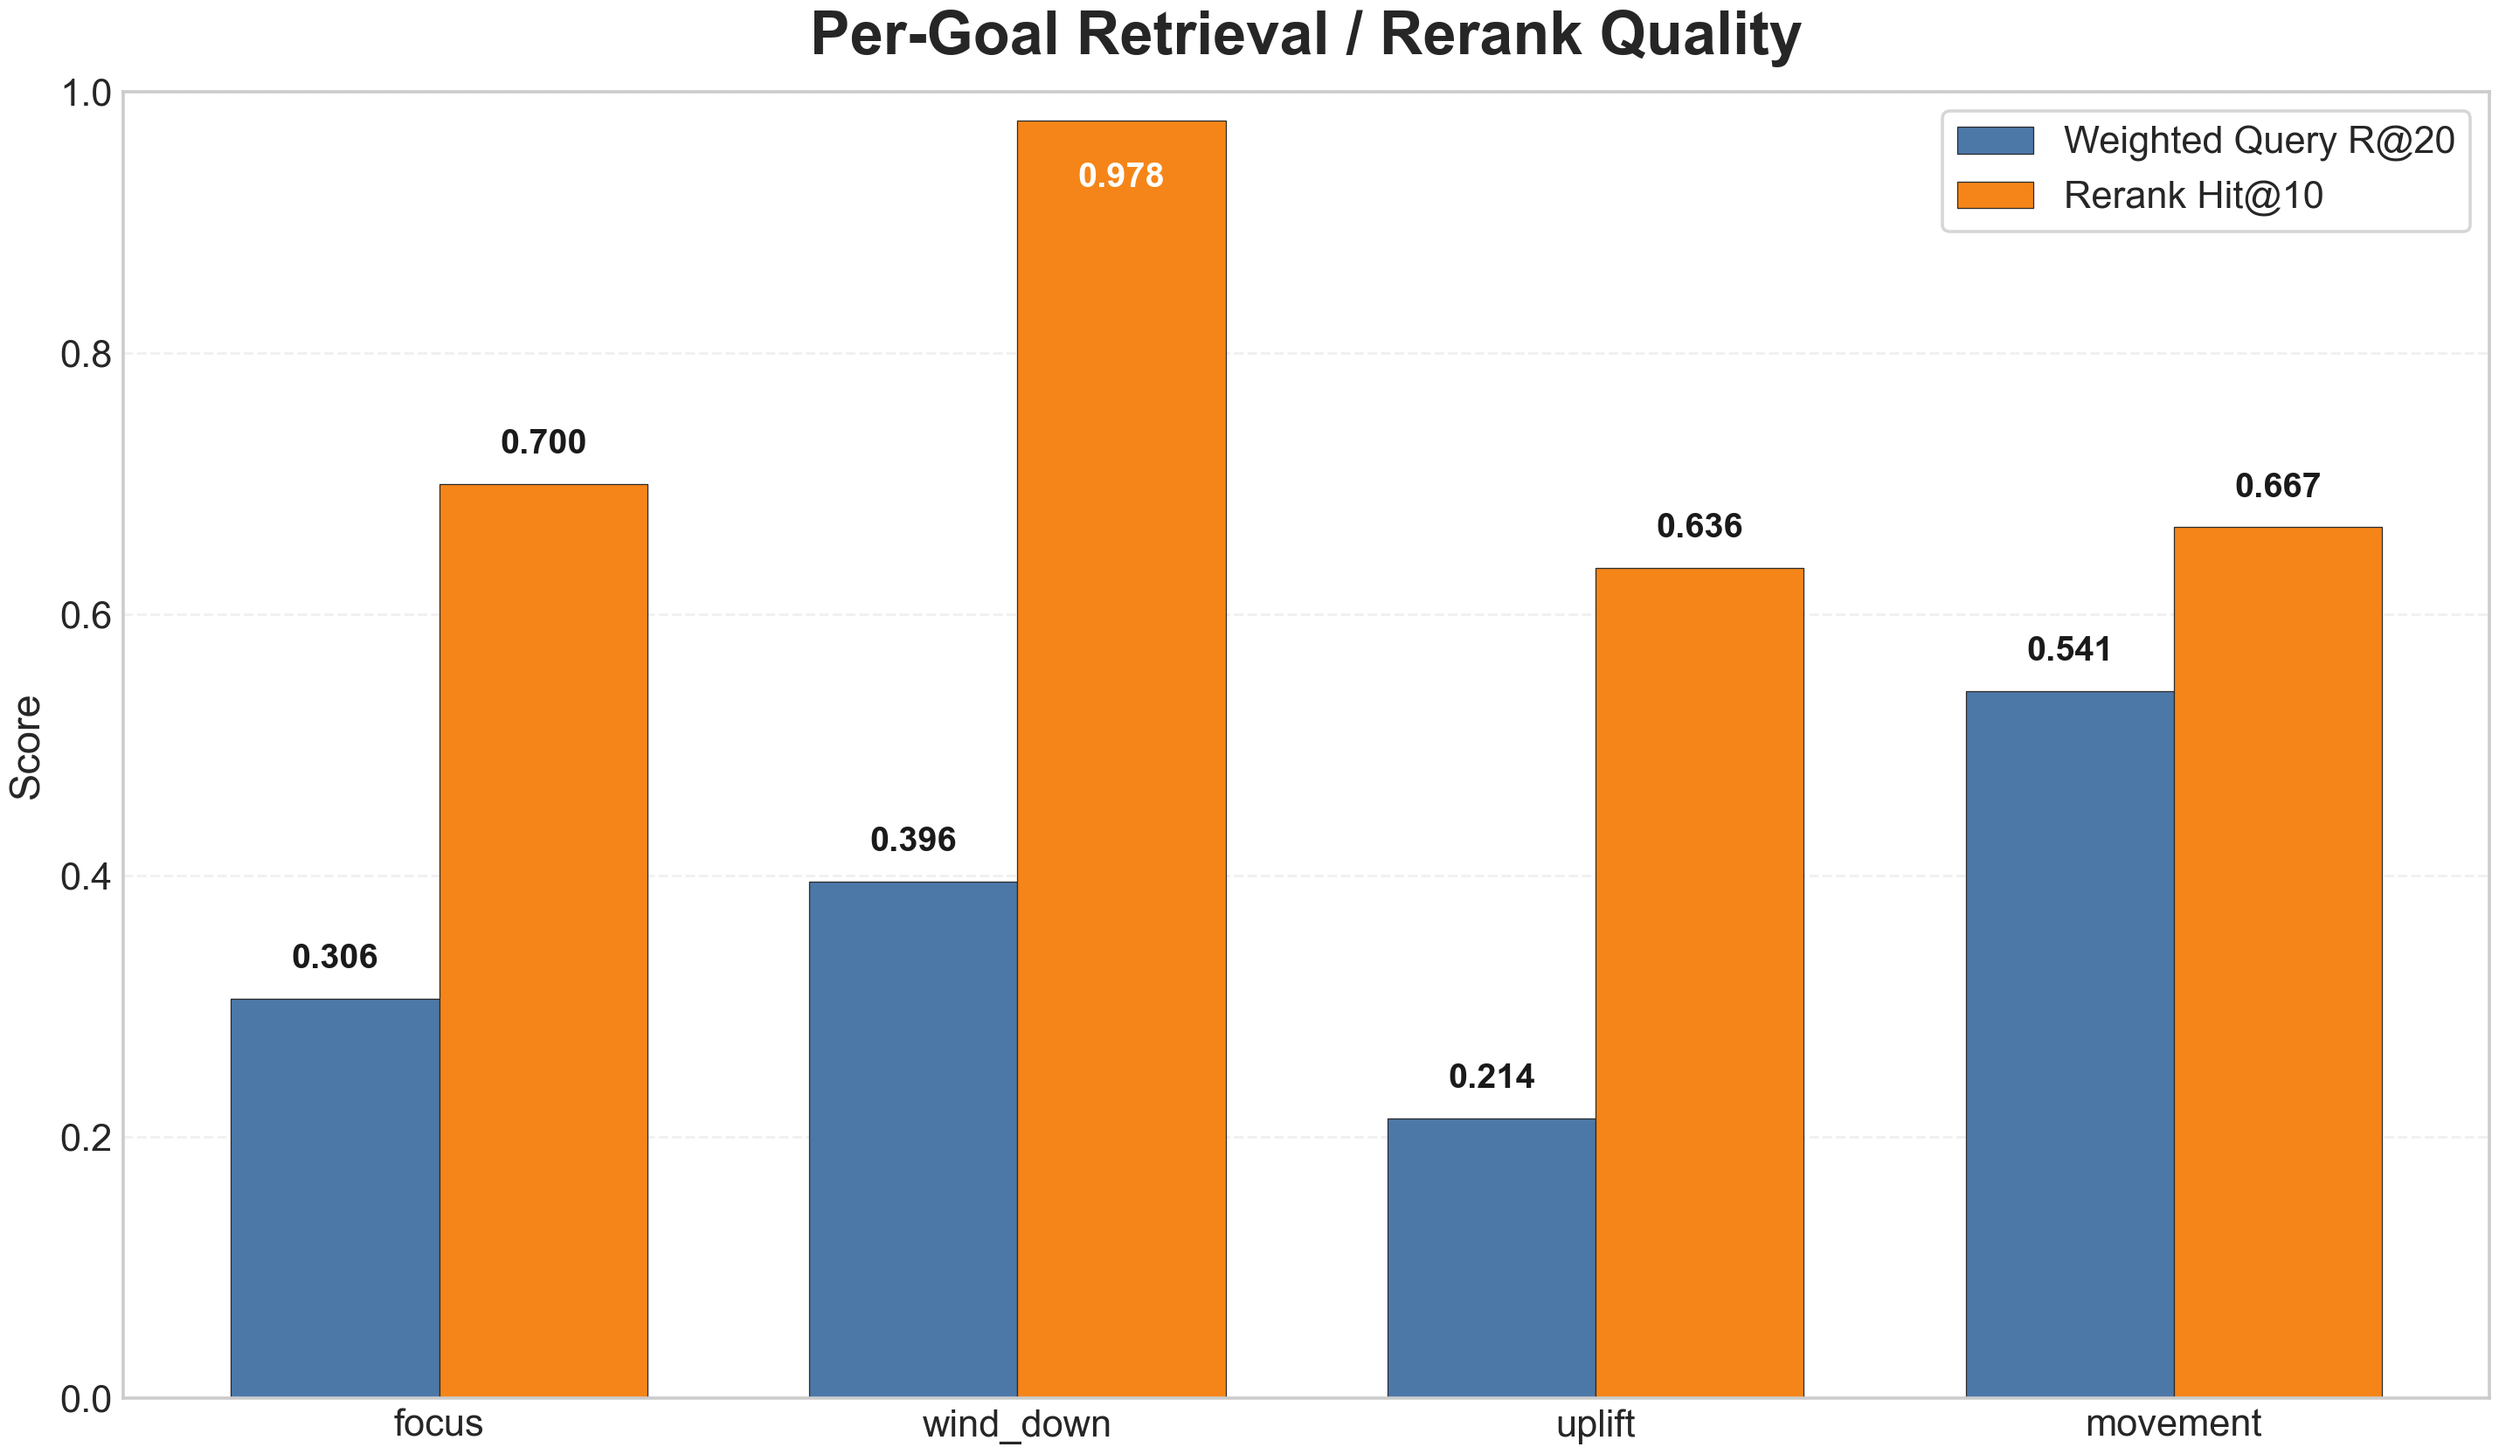
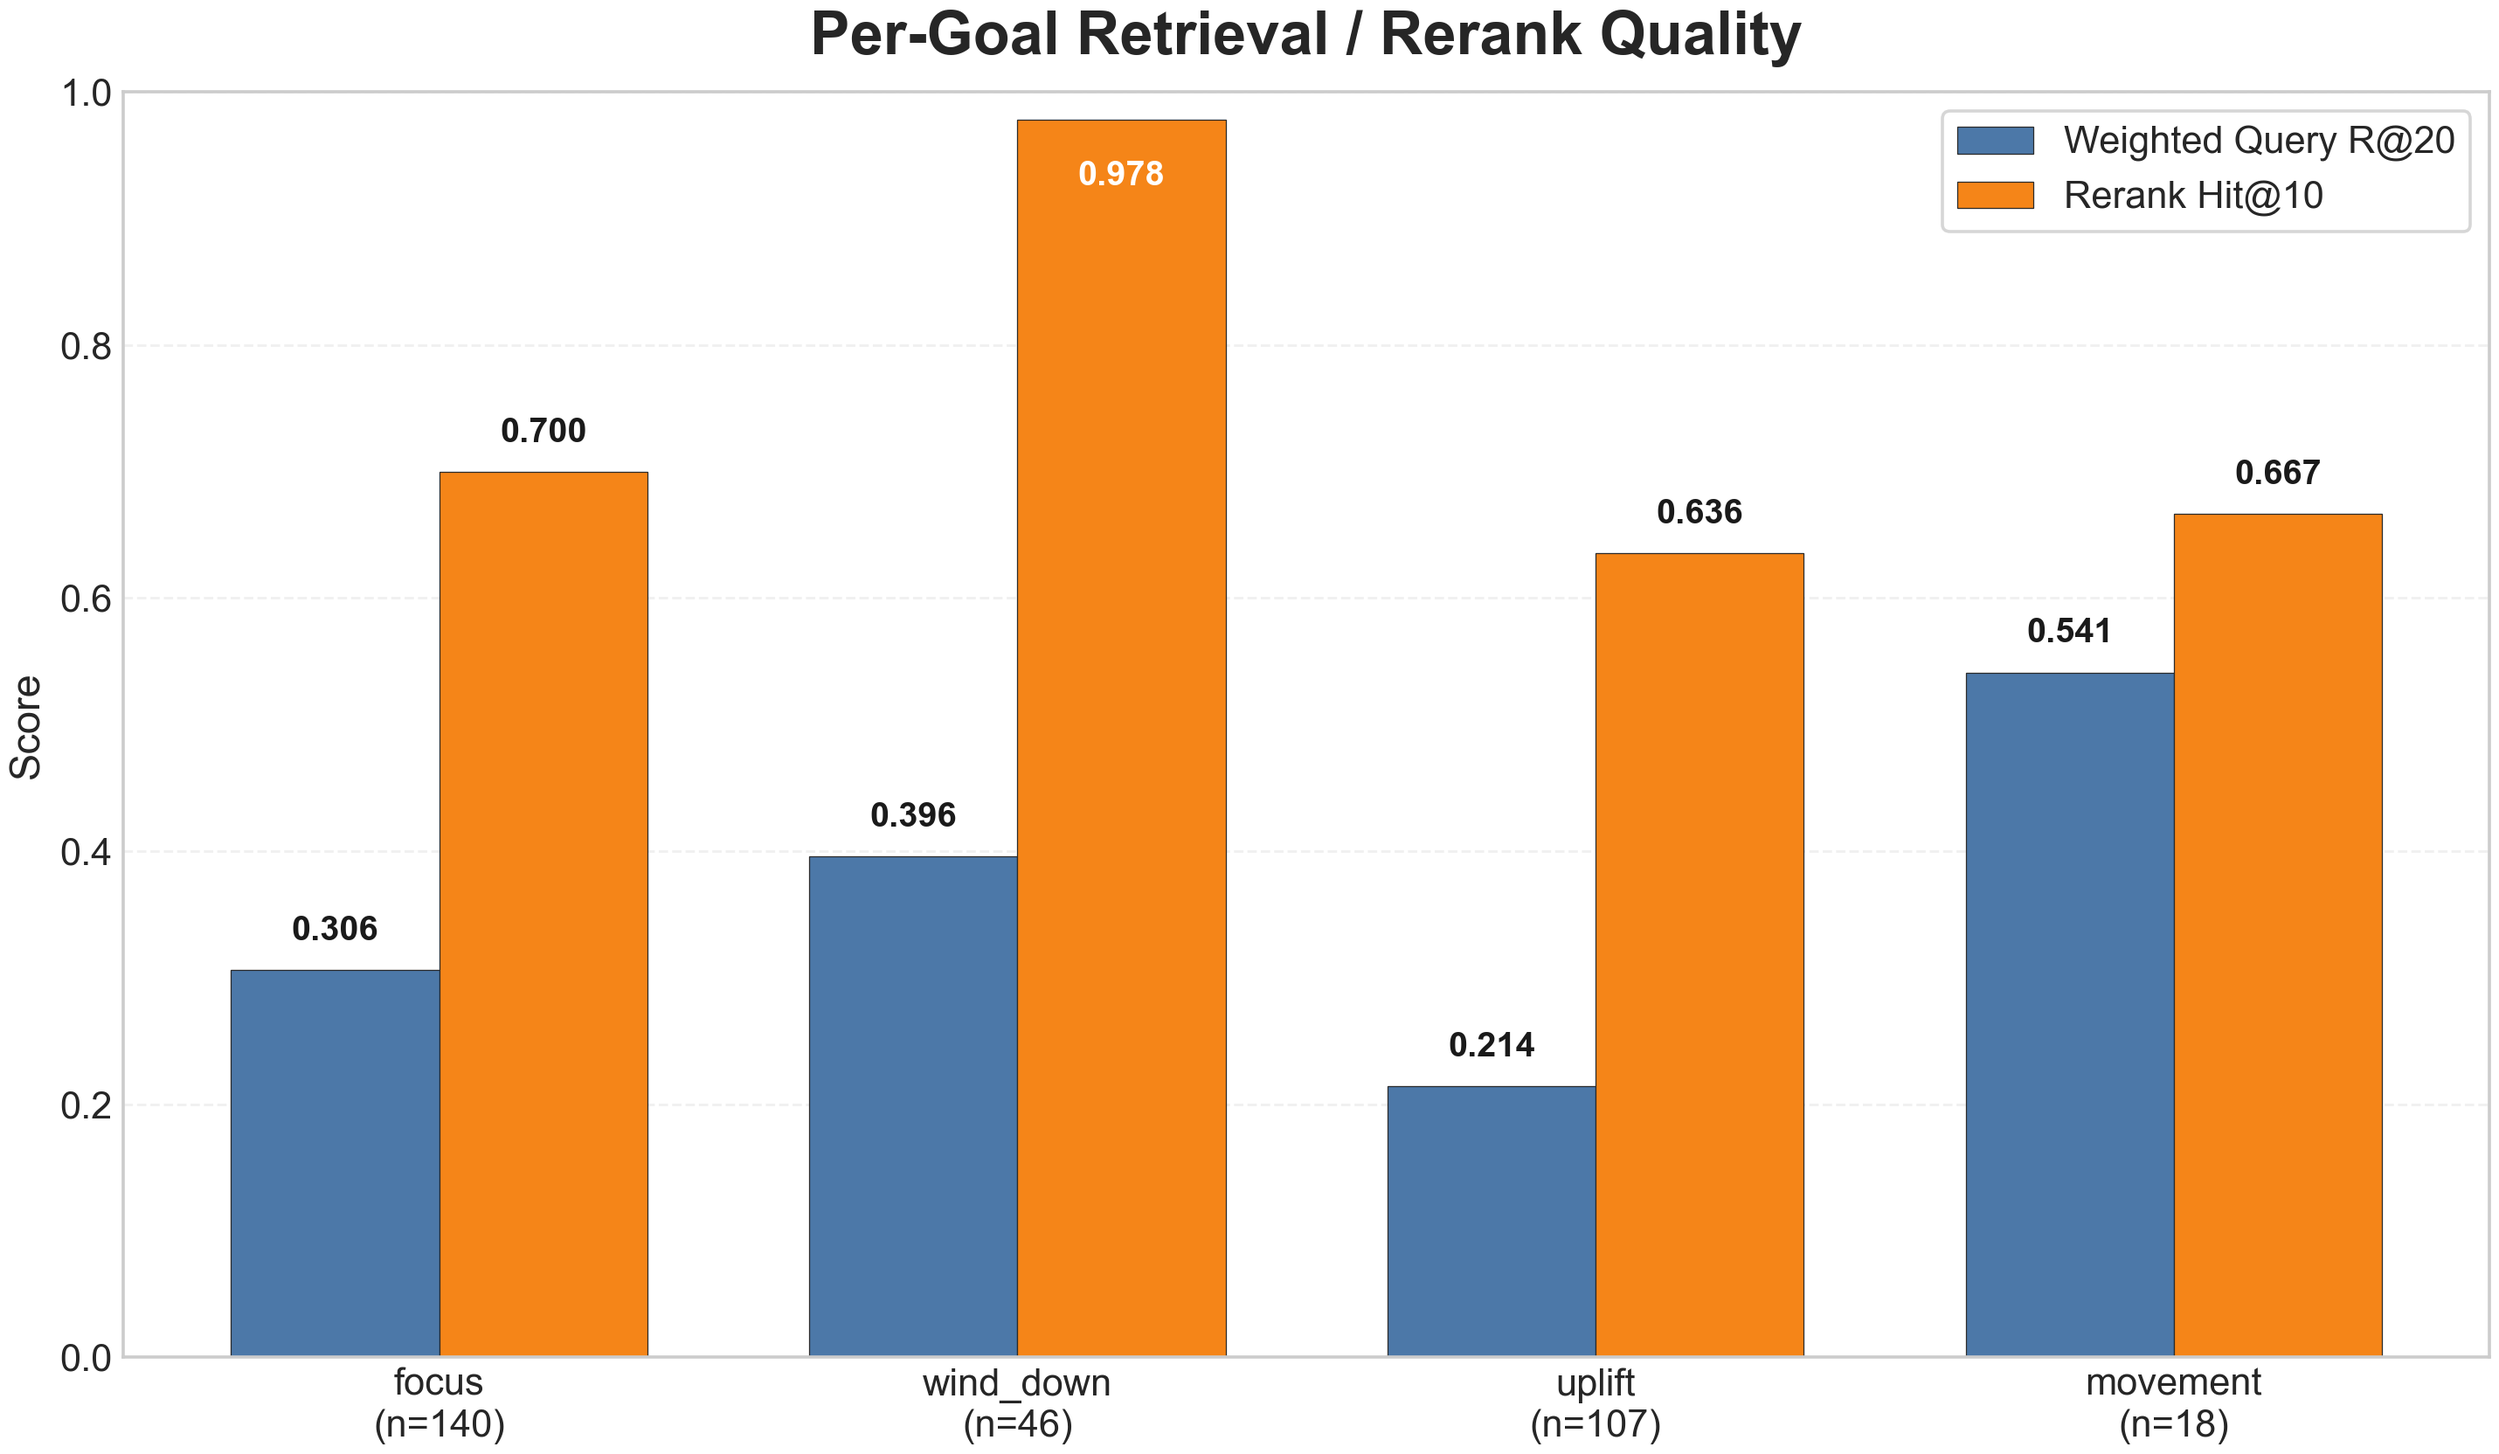
minor changes

diff --git a/eval_v2.py b/eval_v2.py
@@ -87,9 +87,11 @@ def save_figures(offline_eval: dict, output_dir: Path) -> list[Path]:
     )
 
     output_dir.mkdir(parents=True, exist_ok=True)
+    for stale_name in ("v2_key_metrics.png", "v2_legacy_diagnostics.png", "v2_pipeline_overview.png"):
+        stale_path = output_dir / stale_name
+        if stale_path.exists():
+            stale_path.unlink()
     created_paths: list[Path] = []
-    primary = offline_eval["primary_metrics"]
-    palette = ["#4C78A8", "#F58518", "#54A24B", "#B279A2"]
 
     def _annotate_bars(ax, bars, fmt: str = "{:.3f}", y_pad: float = 0.02) -> None:
         y_top = ax.get_ylim()[1]
@@ -114,28 +116,7 @@ def save_figures(offline_eval: dict, output_dir: Path) -> list[Path]:
                 color=color,
             )
 
-    # 1) Core V2.2 metrics.
-    fig1, ax1 = plt.subplots(figsize=(10.5, 6.2), constrained_layout=True)
-    labels = ["Query R@20", "Rerank Hit@10", "Benefit MAE", "Accept MAE"]
-    values = [
-        float(primary["anchor_query_recall_at_20"]),
-        float(primary["anchor_rerank_hit_at_10"]),
-        float(primary["benefit_mae"]),
-        float(primary["blended_accept_mae"]),
-    ]
-    bars = ax1.bar(labels, values, color=palette, edgecolor="#2b2b2b", linewidth=0.4)
-    ax1.set_title("V2.2 Key Metrics", pad=12)
-    ax1.set_ylabel("Value")
-    ax1.set_ylim(0.0, max(1.0, max(values) * 1.20))
-    ax1.grid(axis="y", linestyle="--", alpha=0.28)
-    ax1.grid(axis="x", visible=False)
-    _annotate_bars(ax1, bars, fmt="{:.3f}", y_pad=0.02)
-    fig1_path = output_dir / "v2_key_metrics.png"
-    fig1.savefig(fig1_path, dpi=260, facecolor="white")
-    plt.close(fig1)
-    created_paths.append(fig1_path)
-
-    # 2) Top-1 source distribution.
+    # 1) Top-1 source distribution.
     source_dist = offline_eval.get("top1_source_distribution", {})
     if source_dist:
         ordered = sorted(source_dist.items(), key=lambda item: item[1], reverse=True)
@@ -154,7 +135,7 @@ def save_figures(offline_eval: dict, output_dir: Path) -> list[Path]:
         plt.close(fig2)
         created_paths.append(fig2_path)
 
-    # 3) Per-goal summary.
+    # 2) Per-goal summary with sample counts.
     goal_breakdown = offline_eval.get("goal_breakdown", {})
     ordered_goals = [goal for goal in ["focus", "wind_down", "uplift", "movement"] if goal in goal_breakdown]
     if ordered_goals:
@@ -162,6 +143,7 @@ def save_figures(offline_eval: dict, output_dir: Path) -> list[Path]:
         x_pos = list(range(len(ordered_goals)))
         wq20 = [float(goal_breakdown[goal]["anchor_query_weighted_recall_at_20"]) for goal in ordered_goals]
         hit10 = [float(goal_breakdown[goal]["anchor_rerank_hit_at_10"]) for goal in ordered_goals]
+        sample_counts = [int(goal_breakdown[goal]["rows"]) for goal in ordered_goals]
         width = 0.36
         bars31 = ax3.bar(
             [x - width / 2.0 for x in x_pos],
@@ -182,7 +164,7 @@ def save_figures(offline_eval: dict, output_dir: Path) -> list[Path]:
             linewidth=0.35,
         )
         ax3.set_xticks(x_pos)
-        ax3.set_xticklabels(ordered_goals)
+        ax3.set_xticklabels([f"{goal}\n(n={count})" for goal, count in zip(ordered_goals, sample_counts)])
         ax3.set_ylim(0.0, 1.0)
         ax3.set_ylabel("Score")
         ax3.set_title("Per-Goal Retrieval / Rerank Quality", pad=12)
@@ -195,38 +177,6 @@ def save_figures(offline_eval: dict, output_dir: Path) -> list[Path]:
         fig3.savefig(fig3_path, dpi=260, facecolor="white")
         plt.close(fig3)
         created_paths.append(fig3_path)
-
-    # 4) Legacy diagnostics in two panels to avoid mixed-scale clutter.
-    legacy = offline_eval.get("legacy_diagnostics", {})
-    if legacy:
-        fig4, (ax41, ax42) = plt.subplots(1, 2, figsize=(12.2, 5.8), constrained_layout=True)
-        rate_labels = ["Exact Query R@50", "Exact Rerank Hit@10"]
-        rate_values = [
-            float(legacy.get("exact_song_query_recall_at_50", 0.0)),
-            float(legacy.get("exact_song_rerank_hit_at_10", 0.0)),
-        ]
-        bars41 = ax41.bar(rate_labels, rate_values, color=["#4C78A8", "#F58518"], edgecolor="#2b2b2b", linewidth=0.35)
-        ax41.set_title("Legacy Rates")
-        ax41.set_ylim(0.0, 1.0)
-        ax41.set_ylabel("Rate")
-        ax41.grid(axis="y", linestyle="--", alpha=0.28)
-        ax41.grid(axis="x", visible=False)
-        _annotate_bars(ax41, bars41, fmt="{:.3f}", y_pad=0.03)
-
-        exact_rank = float(legacy.get("exact_song_conditional_rank", 0.0))
-        bars42 = ax42.bar(["Exact Rank (Lower Better)"], [exact_rank], color="#9C755F", edgecolor="#2b2b2b", linewidth=0.35)
-        ax42.set_title("Legacy Rank")
-        ax42.set_ylim(0.0, max(5.0, exact_rank * 1.25))
-        ax42.set_ylabel("Rank")
-        ax42.grid(axis="y", linestyle="--", alpha=0.28)
-        ax42.grid(axis="x", visible=False)
-        _annotate_bars(ax42, bars42, fmt="{:.3f}", y_pad=max(0.2, 0.02 * max(5.0, exact_rank)))
-
-        fig4.suptitle("Legacy Exact-Song Diagnostics", fontsize=20, fontweight="semibold")
-        fig4_path = output_dir / "v2_legacy_diagnostics.png"
-        fig4.savefig(fig4_path, dpi=260, facecolor="white")
-        plt.close(fig4)
-        created_paths.append(fig4_path)
 
     return created_paths
 

diff --git a/docs/PROJECT_STATE.md b/docs/PROJECT_STATE.md
@@ -1,6 +1,6 @@
 # Project State
 
-Last updated: 2026-04-12
+Last updated: 2026-04-17
 
 Rule: after any meaningful implementation change, update this file in the same work session. If the public workflow or user-facing commands changed, update `README.md` too.
 
@@ -500,6 +500,15 @@ Generated artifacts:
 - `models/rebuild/offline_eval_v2.json`
 - `models/rebuild/v2_readiness.json`
 - `data/processed/rebuild/offline_eval_v2_predictions.parquet`
+- `figures/v2_eval/v2_source_mix.png`
+- `figures/v2_eval/v2_goal_breakdown.png`
+
+Current `eval_v2.py` figure export behavior:
+
+- the wrapper now exports only the two presentation-facing figures above
+- it no longer exports the mixed-direction `v2_key_metrics.png` chart, the low-priority `v2_legacy_diagnostics.png` chart, or the optional pipeline overview diagram
+- the goal-breakdown figure now includes per-goal sample counts in the x-axis labels
+- the wrapper also removes those stale unused PNGs from `figures/v2_eval/` when rerun
 
 Last verified end-to-end test result from `models/rebuild/offline_eval_v2.json`:
 

diff --git a/README.md b/README.md
@@ -236,7 +236,7 @@ python demo_v2.py
 
 What the wrappers do:
 - `train_v2.py`: full rebuilt Block B stack
-- `eval_v2.py`: clean offline summary + readiness output
+- `eval_v2.py`: clean offline summary + readiness output + presentation figures (`source_mix`, `goal_breakdown`)
 - `demo_v2.py`: presentation-friendly goal-conditioned demo
 
 Do **not** run `train_v2.py` live during a presentation.
